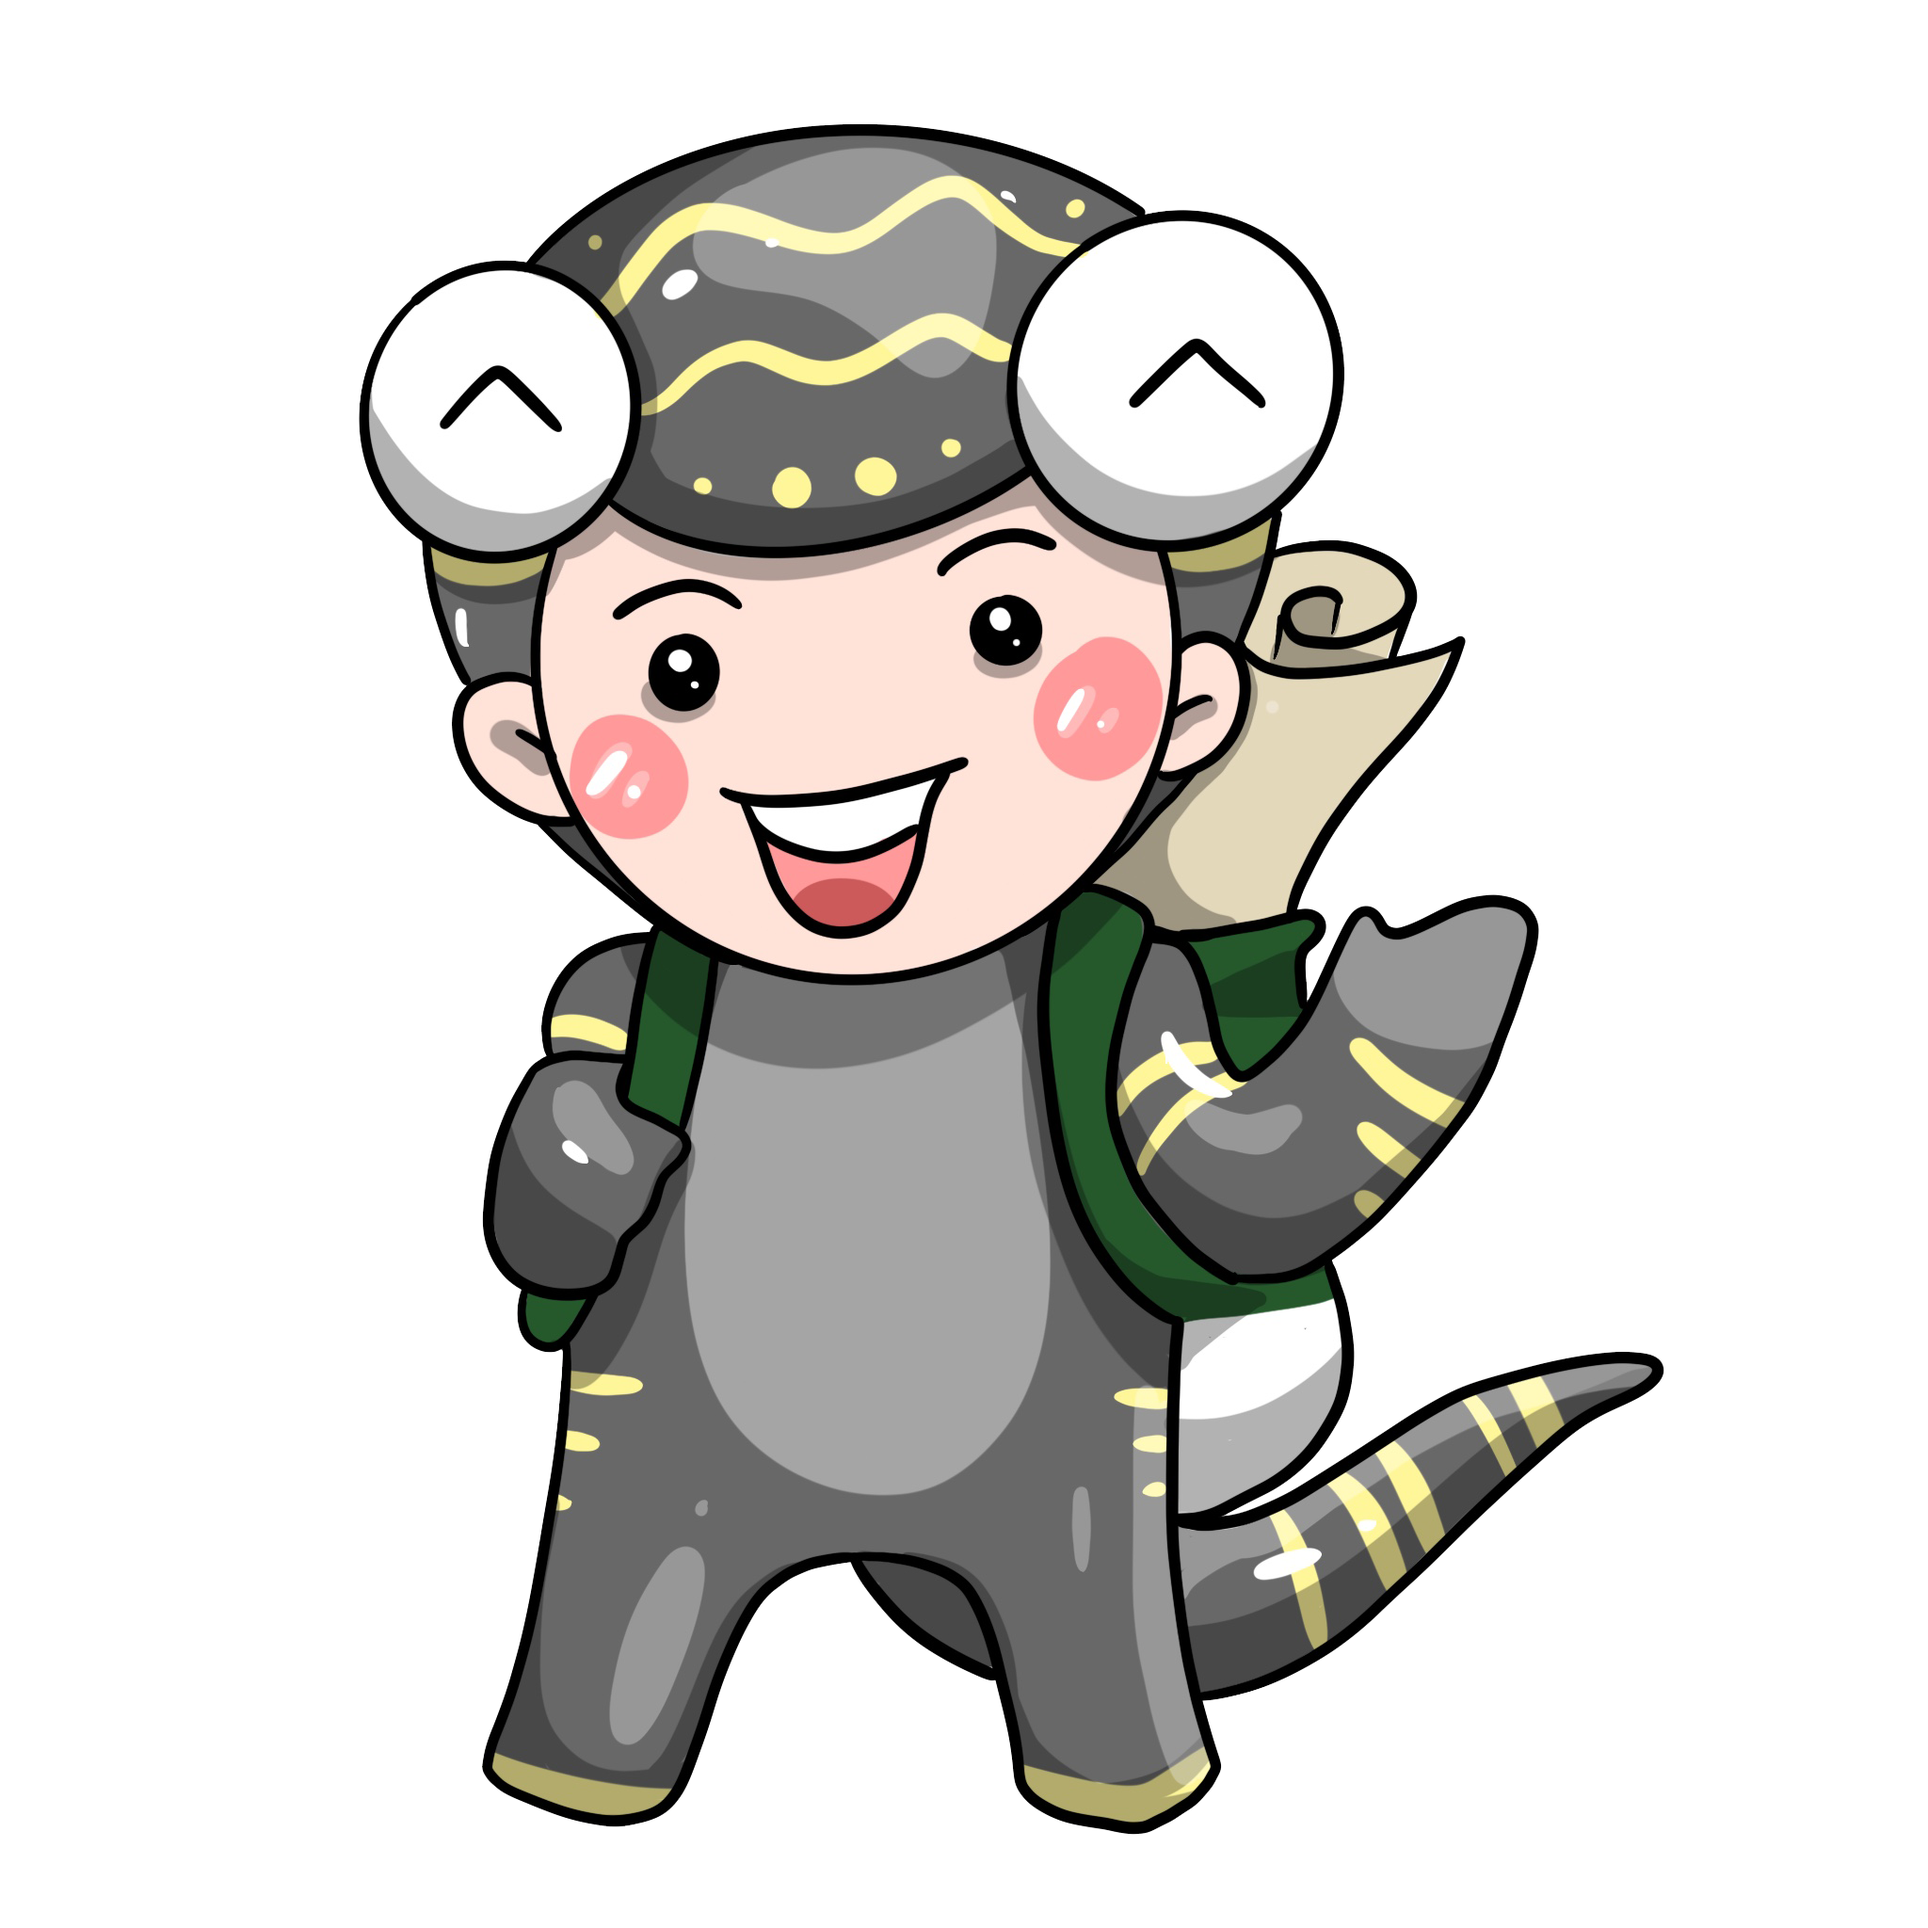
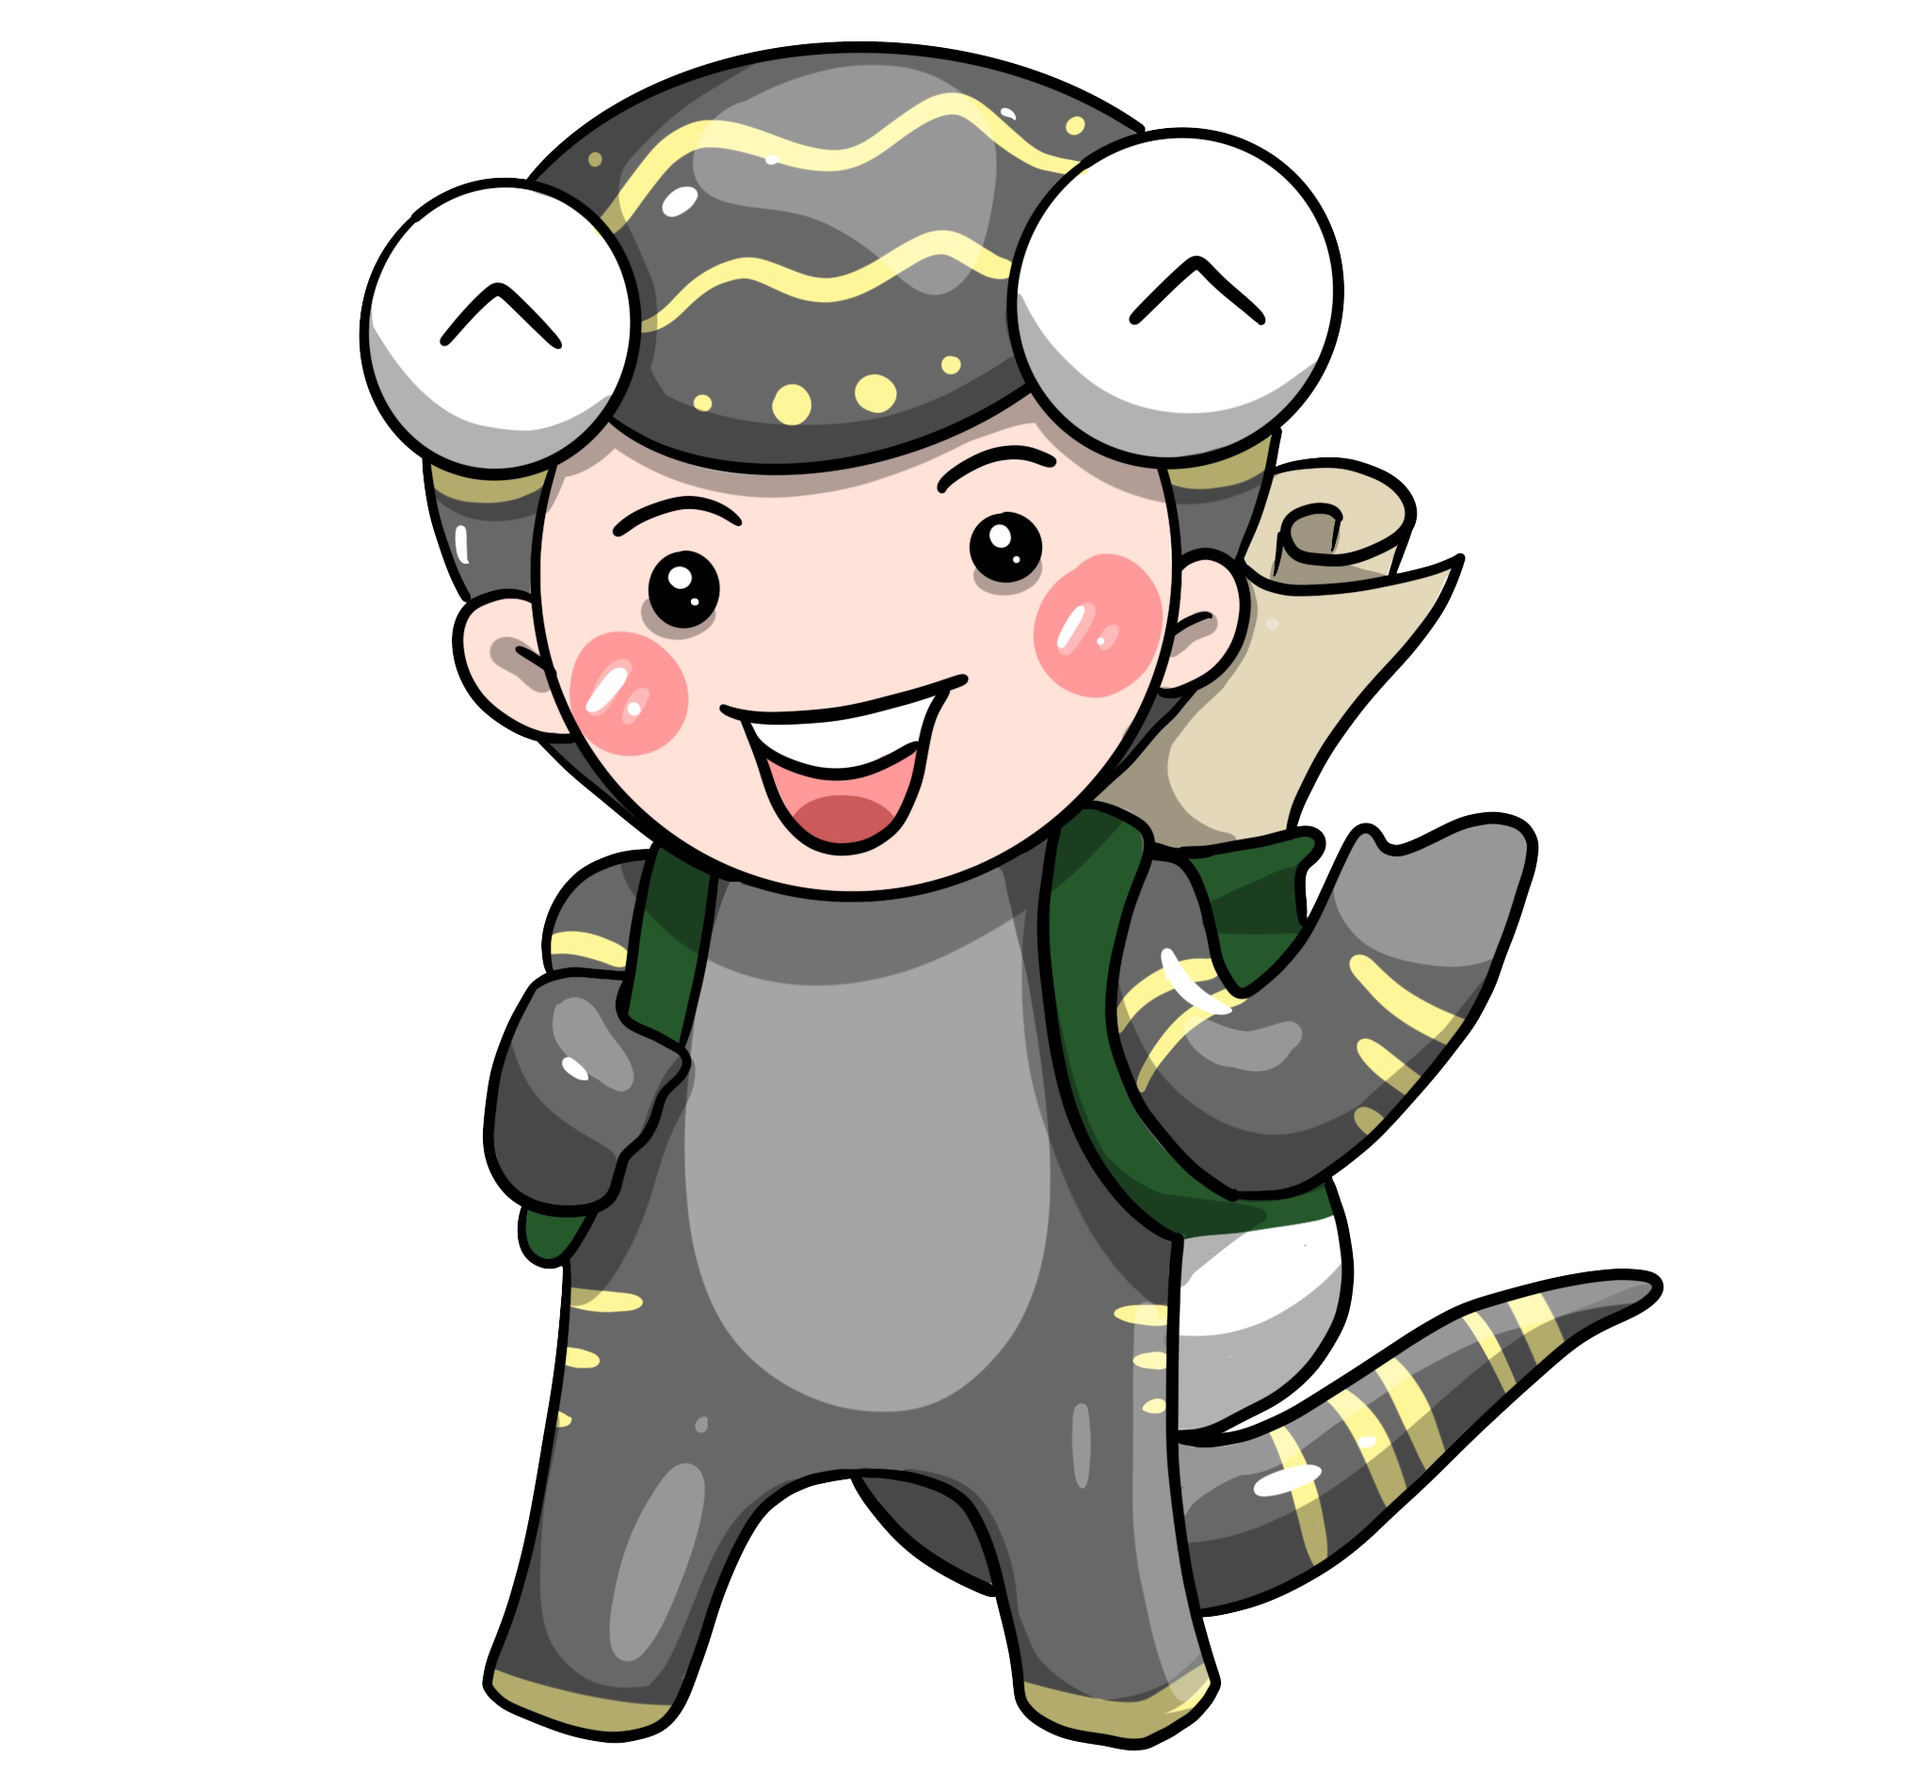
mascot-img

Changed region(s): [[0.1847, 0.0, 0.8002, 0.5234], [0.2462, 0.4926, 0.8617, 0.9851]]

diff --git a/public/css/custom.css b/public/css/custom.css
@@ -319,6 +319,19 @@ body {
      object-fit: cover;
 }
 
+.mascot-img {
+  width: 200px;
+  height: 200px;
+  overflow: hidden;
+}
+
+.mascot-img img {
+  width: auto;
+  height: 100%;
+  -o-object-fit: contain;
+     object-fit: contain;
+}
+
 .img-product {
   min-width: 150px;
   min-height: 150px;

diff --git a/public/css/custom.scss b/public/css/custom.scss
@@ -291,6 +291,17 @@ body {
   }
 }
 
+.mascot-img {
+  width: 200px;
+  height: 200px; 
+  overflow: hidden;
+  img {
+    width: auto;
+    height: 100%;
+    object-fit: contain;
+  }
+}
+
 .img-product {
   min-width: 150px;
   min-height: 150px; 

diff --git a/resources/views/index.blade.php b/resources/views/index.blade.php
@@ -57,7 +57,7 @@
       </div>
     </section>
     <div class="row">
-      <div class="col-md-6 col-lg-4 pb-5">
+      <div class="col-md-6 col-lg-4">
         <section id="box-vision" class="wow fadeInDown h-100" >
           <div class="card card-box mt-5">
             <div class="card-body custom">
@@ -75,7 +75,7 @@
           </div>
         </section>
       </div>
-      <div class="col-md-6 col-lg-4 pb-5">
+      <div class="col-md-6 col-lg-4">
         <section id="box-mission" class="wow fadeInDown h-100" >
           <div class="card card-box mt-5">
             <div class="card-body custom">
@@ -96,7 +96,7 @@
           </div>
         </section>
       </div>
-      <div class="col-md-6 col-lg-4 pb-5">
+      <div class="col-md-6 col-lg-4">
         <section id="box-core_values" class="wow fadeInDown h-100" >
           <div class="card card-box mt-5">
             <div class="card-body custom">
@@ -141,7 +141,7 @@
         </section>
       </div>
     </div>
-    <section id="box-logo" class="wow fadeInDown pt-40px" >
+    <section id="box-logo" class="wow fadeInDown pt-40px">
       <div class="header-selected pt-10px">
         <p><i class="fa fa-bullhorn"></i>{{__('message.logo_mascots')}}</p>
       </div>
@@ -152,7 +152,7 @@
              <img src="{{URL::asset('images/thumbnail.png')}}">
             </div>
           </div>
-          <table class="table table-bordered">
+          <table class="table table-bordered mt-3">
             <tr>
               <th>ต้นไม้</th>
               <td>ที่มีรูปร่างเหมือนดอยสุเทพ สื่อถึงธรรมชาติวิทยาของพื้นที่</td>
@@ -169,14 +169,12 @@
         </div>
       </div>
       <div class="row">
-      <div class="col-md-6 col-lg-4 pb-5">
+      <div class="col-md-6 col-lg-4">
         <div class="card card-box mt-5">
           <div class="card-body custom">
             <div class="d-flex justify-content-center">
-              <div class="w-120px mt-2">
-                <div class="img-1by1 holder " >
-                  <img src="{{URL::asset('images/mascot/ndoi.png')}}" class="img-responsive image-preview" >
-                </div>
+              <div class="mascot-img" >
+                <img src="{{URL::asset('images/mascot/ndoi.png')}}">
               </div>
             </div>
             <p class="font-18px text-center mt-3"><b>น้องดอย</b></p>
@@ -189,14 +187,12 @@
           </div>
         </div>
       </div>
-      <div class="col-md-6 col-lg-4 pb-5">
+      <div class="col-md-6 col-lg-4">
         <div class="card card-box mt-5">
           <div class="card-body custom">
             <div class="d-flex justify-content-center">
-              <div class="w-120px mt-1">
-                <div class="img-1by1 holder " >
-                  <img src="{{URL::asset('images/mascot/ntonnum.png')}}" class="img-responsive image-preview" >
-                </div>
+              <div class="mascot-img" >
+                <img src="{{URL::asset('images/mascot/ntonnum.png')}}">
               </div>
             </div>
             <p class="font-18px text-center mt-3 pt-1"><b>น้องต้นน้ำ</b></p>
@@ -209,14 +205,12 @@
           </div>
         </div>
       </div>
-      <div class="col-md-6 col-lg-4 pb-5">
+      <div class="col-md-6 col-lg-4">
         <div class="card card-box mt-5">
           <div class="card-body custom">
             <div class="d-flex justify-content-center">
-              <div class="w-120px mt-1">
-                <div class="img-1by1 holder " >
-                  <img src="{{URL::asset('images/mascot/nguy.png')}}" class="img-responsive image-preview" >
-                </div>
+              <div class="mascot-img" >
+                <img src="{{URL::asset('images/mascot/nguy.png')}}">
               </div>
             </div>
             <p class="font-18px text-center mt-3 pt-1"><b>น้องกาย</b></p>
